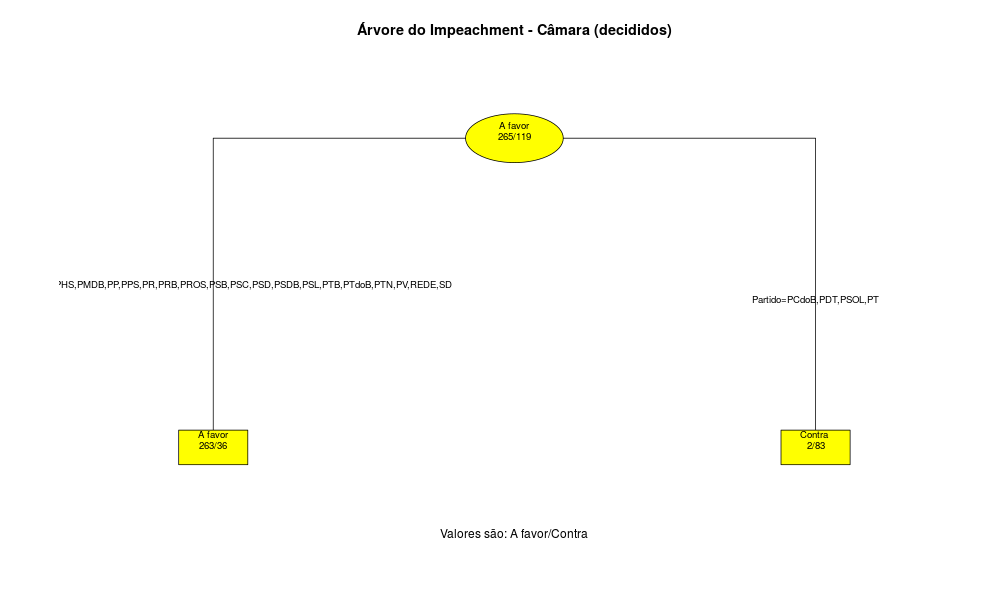
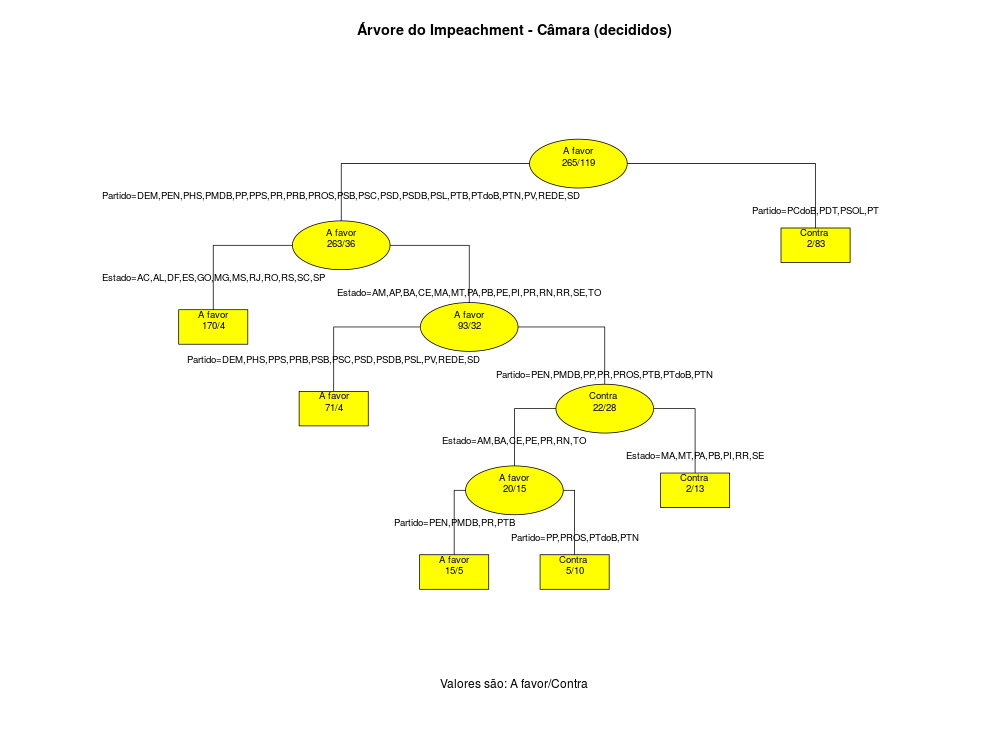
Impeachment

diff --git a/index.html b/index.html
@@ -11,7 +11,7 @@ bigimg:
   - "/img/big-imgs/rooml.jpg" : "Room L, Decon (UFPel), Pelotas"
 ---
 
-<div class="index-posts-title">Posts:</div>
+<div class="index-posts-title">News:</div>
 
 <div class="posts-list">
   {% for post in paginator.posts %}

diff --git a/_posts/2016-04-01-impeachment.md b/_posts/2016-04-01-impeachment.md
@@ -1,30 +1,30 @@
 ---
 layout: post
-title: "A árvore do impeachment"
-subtitle: Prevendo o resultado do impeachment brasileiro
-tags: [classificação, regressão, árvores, impeachment, previsão]
-date: 2016-04-03 10:00:00 -0300
+title: "A árvore do Impeachment"
+subtitle: Previsão do resultado do Impeachment brasileiro
+tags: [classificação, regressão, árvores, Impeachment, previsão]
+date: 2016-04-01 10:00:00 -0300
 ---
 
-## Cenário do impeachment
+## Cenário do Impeachment
 
-A favor ou contra? Parece que todo cidadão brasileiro já tem uma opinião formada sobre o impeachment, com exceção dos políticos, que estão um tanto indecisos. O site **[vem pra rua](http://mapa.vemprarua.net/br/)** fez um serviço de utilidade pública ao elencar a intenção de voto de todos os deputados e senadores brasileiros. Mas a verdade é que ainda resta muita dúvida sobre qual será o resultado dessa votação. Uma vez que os dados estão disponíveis, podemos tentar realizar uma tarefa quase impossível: tentar prever qual será o desfecho da situação política brasileira. Para isso vamos utilizar um simples modelo de regressão baseado em árvores, utilizando o pacote [`rpart`](https://cran.r-project.org/web/packages/rpart/vignettes/longintro.pdf) no **[R](https://www.r-project.org/)**. Vamos aos fatos:
+A favor ou contra? Parece que todo cidadão brasileiro já tem uma opinião formada sobre o Impeachment, com exceção dos políticos, que estão um tanto indecisos. O site **[vem pra rua](http://mapa.vemprarua.net/br/)** fez um serviço de utilidade pública ao elencar a intenção de voto de todos os deputados e senadores brasileiros. Mas a verdade é que ainda resta muita dúvida sobre qual será o resultado dessa votação. Uma vez que os dados estão disponíveis, podemos tentar realizar uma tarefa quase impossível: prever qual será o desfecho da situação política brasileira. Para isso vamos utilizar um simples modelo de regressão baseado em árvores, implementado no pacote [`rpart`](https://cran.r-project.org/web/packages/rpart/vignettes/longintro.pdf) do **[R](https://www.r-project.org/)**. Primeiro vamos aos fatos:
 
 1. Atualmente temos 513 deputados e 81 senadores no Brasil;
 
-2. Na Câmara dos Deputados ocorre o juízo de admissibilidade do processo de impeachment;
+2. Na Câmara dos Deputados ocorre o juízo de admissibilidade do processo de Impeachment;
 
-3. No Senado Federal ocorre o julgamento do impeachment;
+3. No Senado Federal ocorre o julgamento do Impeachment;
 
 4. Para autorização do processo é necessário votação favorável de dois terços dos Deputados Federais e para a condenação é necessária votação de dois terços dos Senadores;
 
-5. Considerando os números, é necessário que 342 Deputados e 54 Senadores sejam favoráveis ao impeachment para que tenhamos um novo Presidente.
+5. Considerando os números, é necessário que 342 Deputados e 54 Senadores sejam favoráveis ao Impeachment para que tenhamos um novo Presidente.
 
-Para conhecer um pouco mais sobre o processo de impeachment você pode ler a **[legislação](http://presrepublica.jusbrasil.com.br/legislacao/128811/lei-do-impeachment-lei-1079-50)**.
+Para conhecer um pouco mais sobre o processo de Impeachment você pode ler a **[legislação](http://presrepublica.jusbrasil.com.br/legislacao/128811/lei-do-Impeachment-lei-1079-50)**.
 
 ## Obtendo os dados
 
-Como a política brasileira é mais imprevisível que episódio de Game of Thrones, vale a pena automatizar a coleta de dados para podermos atualizar constantemente a previsão - neste exato momento que escrevo o post já ocorrem mudanças na intenção de voto de 2 Deputados. Para isso, escrevi um pequeno script em **[python](http://wiki.python.org.br/)** que coleta os dados do site **[vem pra rua](http://mapa.vemprarua.net/br/)** e grava em um arquivo csv com o nome [`imp.csv`](/files/imp.csv), deixando-o pronto para ser analisado no R. Você ver este script **[aqui](https://gist.github.com/regisely/caefdf30313503bbf5d0bbae6e2a597d)**.
+Como a política brasileira é mais imprevisível que episódio de Game of Thrones, vale a pena automatizar a coleta de dados para podermos atualizar constantemente a previsão - neste exato momento em que escrevo este post já ocorreram mudanças na intenção de voto de 2 Deputados. Para isso, escrevi um pequeno script em **[python](https://www.python.org/)** que coleta os dados do site **[vem pra rua](http://mapa.vemprarua.net/br/)** e grava em um arquivo csv com o nome [`imp.csv`](/files/imp.csv), deixando-o pronto para ser analisado no R. Você ver este script **[aqui](https://gist.github.com/regisely/caefdf30313503bbf5d0bbae6e2a597d)**.
 
 Uma vez obtidos os dados podemos carregá-lo no R digitando:
 
@@ -50,7 +50,7 @@ Aqui está as primeiras 10 observações:
 
 A variável *Voto* contém três possíveis valores: "A favor", "Contra" ou em branco (indecisos). Já a variável *Senador* é uma dummy que é igual a um quando o político é Senador e zero quando é Deputado. As outras três variáveis são o *Nome*, o *Partido* e o *Estado*.
 
-Para prevermos o resultado do impeachment vamos utilizar o método de regressão com particionamento recursivo, implementado pelo pacote [`rpart`](https://cran.r-project.org/web/packages/rpart/vignettes/longintro.pdf). A ideia é que podemos separar as decisões dos políticos em grupos baseados em seus Partidos e Estados. Esse método é ideal para o caso brasileiro, pois sabemos que existem cisões entre os partidos brasileiros dependendo do Estado.
+Para prevermos o resultado do Impeachment vamos utilizar o método de regressão com particionamento recursivo, implementado pelo pacote [`rpart`](https://cran.r-project.org/web/packages/rpart/vignettes/longintro.pdf). A ideia é que podemos separar as decisões dos políticos em grupos baseados em seus Partidos e Estados. Esse método é ideal para o caso brasileiro, pois sabemos que existem cisões entre os partidos brasileiros dependendo do Estado.
 
 ## Implementação do modelo
 
@@ -77,32 +77,41 @@ train_sen <- na.omit(senadores) # senadores decididos
 test_sen <- senadores[which(is.na(senadores$Voto)),] # senadores indecisos
 ```
 
-Note que chamamos o conjunto dos Senadores e Deputados que já estão decididos de **train**, pois estes serão os dados utilizados para treinar nosso modelo. Posteriormente, aplicaremos os resultados do modelo nos dados denominados **test**, que é o conjunto dos políticos indecisos. A partir daí teremos nossa previsão.
+Note que chamamos o conjunto dos Senadores e Deputados que já estão decididos de **train**, pois estes serão os dados utilizados para treinar nosso modelo. Posteriormente, aplicaremos os resultados do modelo nos dados denominados **test**, que é o conjunto dos políticos indecisos, e então teremos nossa previsão.
 
-Agora podemos treinar o modelo:
+Para estimar o modelo digitamos:
 
 ```r
 # Estimação do modelo
 formula = Voto ~ Partido + Estado # o voto é função do Partido e Estado
 fit_dep = rpart(formula, method = "class", data = train_dep)
 fit_sen = rpart(formula, method = "class", data = train_sen)
-
-# Seleção do modelo com menor erro
-fit_dep <- prune(fit_dep,
-                 cp = fit_dep$cptable[which.min(fit_dep$cptable[,"xerror"]),
-                                      "CP"])
-fit_sen <- prune(fit_sen,
-                 cp = fit_sen$cptable[which.min(fit_sen$cptable[,"xerror"]),
-                                      "CP"])
 fit_dep
 fit_sen
 ```
 
-Após estimar o modelo, você pode utilizar as funções `printcp(fit_dep)` e `plotcp(fit_dep)` para verificar qual a combinação de árvores que gera o menor erro no conjunto de previsão. No código acima, faço essa seleção automaticamente e estimo o modelo novamente com a função `prune`. 
+Ao avaliar os resultados da variável `fit_dep`, obtemos os nódulos de divisão para os Deputados:
 
-## Gerando a árvore de decisão para os decididos
+~~~
+n= 384 
 
-Uma vez que estimamos nosso modelo, podemos verificar na prática qual é a separação entre Partidos e Estados que ele está utilizando. Com isso utilizamos a função `plot` no R. Para construirmos árvores mais bonitas utilizamos a função `text` com alguns argumentos especiais (digite `?plot.rpart` no R para mais informações).
+node), split, n, loss, yval, (yprob)
+      * denotes terminal node
+
+ 1) root 384 119 A favor (0.69010417 0.30989583)  
+   2) Partido=DEM,PEN,PHS,PMDB,PP,PPS,PR,PRB,PROS,PSB,PSC,PSD,PSDB,PSL,PTB,PTdoB,PTN,PV,REDE,SD 299  36 A favor (0.87959866 0.12040134)  
+     4) Estado=AC,AL,DF,ES,GO,MG,MS,RJ,RO,RS,SC,SP 174   4 A favor (0.97701149 0.02298851) *
+     5) Estado=AM,AP,BA,CE,MA,MT,PA,PB,PE,PI,PR,RN,RR,SE,TO 125  32 A favor (0.74400000 0.25600000)  
+      10) Partido=DEM,PHS,PPS,PRB,PSB,PSC,PSD,PSDB,PSL,PV,REDE,SD 75   4 A favor (0.94666667 0.05333333) *
+      11) Partido=PEN,PMDB,PP,PR,PROS,PTB,PTdoB,PTN 50  22 Contra (0.44000000 0.56000000)  
+        22) Estado=AM,BA,CE,PE,PR,RN,TO 35  15 A favor (0.57142857 0.42857143)  
+          44) Partido=PEN,PMDB,PR,PTB 20   5 A favor (0.75000000 0.25000000) *
+          45) Partido=PP,PROS,PTdoB,PTN 15   5 Contra (0.33333333 0.66666667) *
+        23) Estado=MA,MT,PA,PB,PI,RR,SE 15   2 Contra (0.13333333 0.86666667) *
+   3) Partido=PCdoB,PDT,PSOL,PT 85   2 Contra (0.02352941 0.97647059) *> fit_dep
+~~~
+
+Parece complicado, mas uma maneira mais fácil de visualizar estes nódulos é graficamente. Para isso utilizamos a função `plot` no R. Para construirmos árvores mais bonitas utilizamos a função `text` com alguns argumentos especiais (digite `?plot.rpart` no R para mais informações).
 
 ```r
 # Plota árvore dos deputados decididos
@@ -120,13 +129,28 @@ text(fit_sen, use.n = TRUE, all = TRUE, cex = .8, pretty = TRUE,
 mtext("Valores são: A favor/Contra", side = 1)
 ```
 
-Este é o resultado das duas árvores, lembrando que elas ainda não incluem os parlamentares indecisos:
+Assim, obtemos os seguintes gráficos:
 
 [![Árvore do Impeachment - Câmara (decididos)]({{ site.url }}/img/tree_dep.png)]({{ site.url }}/img/tree_dep.png)
 
 [![Árvore do Impeachment - Senado (decididos)]({{ site.url }}/img/tree_sen.png)]({{ site.url }}/img/tree_sen.png)
 
+Ainda assim não é tão simples, mas quem disse que a política brasileira era fácil de entender. Vamos primeiro analisar o Congresso. Repare que no primeiro nódulo há uma divisão partidária, com o grupo PCdoB, PDT, PSOL e PT de um lado, sendo que 2 Deputados são a favor e 83 contra o Impeachment. No resto dos partidos, existem divisões de acordo com o Estado. No grupo AC,AL,DF,ES,GO,MG,MS,RJ,RO,RS,SC,SP temos 170 Deputados a favor e apenas 4 contra, mas no restante dos Estados há divisões partidárias e por região. Resumindo, me parece que os partidos estão mais rachados nos Estados do Nordeste. No Senado a divisão é mais simples e parece ser explicada bastante pelo Estado do Senador.
+
 ## Previsão dos votos indecisos
+
+Ao utilizar uma estrutura muito complicada para o nosso modelo, podemos acabar cometendo o erro de *overfitting* em nossa previsão. Para evitar isso, podemos utilizar as funções `printcp(fit_dep)` e `plotcp(fit_dep)` para verificar qual a estrutura de árvores que gera o menor erro de previsão em um conjunto independente, chamado *cross-validated*. No código abaixo faço essa seleção automaticamente e estimo o modelo novamente com a função `prune`. 
+
+
+```r
+# Seleção do modelo com menor erro
+fit_dep <- prune(fit_dep,
+                 cp = fit_dep$cptable[which.min(fit_dep$cptable[,"xerror"]),
+                                      "CP"])
+fit_sen <- prune(fit_sen,
+                 cp = fit_sen$cptable[which.min(fit_sen$cptable[,"xerror"]),
+                                      "CP"])
+```
 
 Uma vez obtido o modelo com o menor erro, podemos utilizar os dados referentes aos parlamentares indecisos para realizar a previsão do voto e calcular o percentual de votos a favor com essas novas previsões:
 
@@ -146,16 +170,31 @@ percentual_dep
 percentual_sen
 ```
 
+E o resultado será:
+
+~~~
+[1] 0.7465887 # Câmara dos Deputados
+[1] 0.5308642 # Senado Federal
+~~~
+
+Parece que na situação atual, o Impeachment passa pela Câmara mas esbarra no Congresso.
+
 # Árvores com previsão
 
+Para finalizar, vamos construir a árvore final que inclui os indecisos e utiliza o modelo simplificado com menor erro de previsão:
+
 ```r
+# Altera os dados originais para incluir a previsão dos indecisos
 new_dep <- deputados
 new_dep[names(prev_dep), "Voto"] <- prev_dep
 new_sen <- senadores
 new_sen[names(prev_sen), "Voto"] <- prev_sen
+
+# Constrõe a árvore com os indecisos
 fit_dep_prev = rpart(formula, method = "class", data = new_dep)
 fit_sen_prev = rpart(formula, method = "class", data = new_sen)
 
+# Plota a árvore dos Deputados com os indecisos
 plot(fit_dep_prev, uniform = TRUE,
     main = "Árvore do Impeachment - Câmara (com previsão de indecisos)",
     margin = 0.2)
@@ -165,6 +204,7 @@ mtext("Valores são: A favor/Contra", side = 1)
 mtext(paste0("Percentual previsto a favor: ",
              round(percentual_dep*100, digits = 2), "%"))
 
+# Plota a árvore dos Senadores com os indecisos
 plot(fit_sen_prev, uniform = TRUE,
     main = "Árvore do Impeachment - Senado (com previsão de indecisos)",
     margin = 0.3)
@@ -175,6 +215,52 @@ mtext(paste0("Percentual previsto a favor: ",
              round(percentual_sen*100, digits=2), "%"))
 ```
 
+O resultado está abaixo:
+
 [![Árvore do Impeachment - Câmara (com previsão de indecisos)]({{ site.url }}/img/tree_dep_prev.png)]({{ site.url }}/img/tree_dep_prev.png)
 
 [![Árvore do Impeachment - Senado (com previsão de indecisos)]({{ site.url }}/img/tree_sen_prev.png)]({{ site.url }}/img/tree_sen_prev.png)
+
+A árvore do Senado Federal nos mostra que a maior resistência ao Impeachment parece ser os partidos do PCdoB, PDT, PMDB, PP, PR, PRB, PSB, PSD, PT e PTB nos Estados AL, AM, AP, BA, MA, PA, PE, PI, PR, RJ, RN, RR, TO. O Impeachment precisa de 54 votos no Senado. Atualmente existem 36 Senadores com intenção de voto a favor e 26 contra. Assim, são necessários 18 votos dos 19 indecisos para a Presidente ser destituída do Cargo, ou então uma mudança no voto dos Senadores que se declararam contra o Impeachment.
+
+Podemos visualizar a lista dos Senadores indecisos segundo o site **[vem pra rua](http://mapa.vemprarua.net/br/)** com o comando:
+
+```r
+senadores[which(is.na(senadores$Voto)), ]
+```
+
+O resultado nos dá:
+
+~~~
+447 <NA>             Acir Gurgacz         PDT     RO       1
+448 <NA> Antonio Carlos Valadares         PSB     SE       1
+449 <NA>            Ciro Nogueira          PP     PI       1
+450 <NA>       Delcidio do Amaral Sem partido     MS       1
+451 <NA>           Douglas Cintra         PTB     PE       1
+452 <NA>            Elmano Ferrer         PTB     PI       1
+453 <NA>  Fernando Bezerra Coelho         PSB     PE       1
+454 <NA>               Helio Jose        PMDB     DF       1
+455 <NA>       Joao Alberto Souza        PMDB     MA       1
+456 <NA>            Jose Maranhao        PMDB     PB       1
+457 <NA>              Lucia Vania         PSB     GO       1
+458 <NA>         Marcelo Crivella         PRB     RJ       1
+459 <NA>                Omar Aziz         PSD     AM       1
+460 <NA>            Raimundo Lira        PMDB     PB       1
+461 <NA>            Roberto Rocha         PSB     MA       1
+462 <NA>                  Romario         PSB     RJ       1
+463 <NA>              Romero Juca        PMDB     RR       1
+464 <NA>             Sandra Braga        PMDB     AM       1
+465 <NA>         Vicentinho Alves          PR     TO       1
+~~~
+
+## Atualizando as previsões
+
+Como toda previsão é melhor a medida que incorpora a chegada de novas informações, fiz uma rotina para atualizar os resultados dessa previsão diariamente e postar aqui.
+
+**Última atualização:** 01/04/2016
+
+**Câmera Federal:** 74,66%
+
+**Senado Federal:** 53,09%
+
+Tem sugestões para melhorar o algoritmo? Tem dúvidas sobre a implementação? Encontrou algum typo no texto? Me avise nos comentários ou por email.
